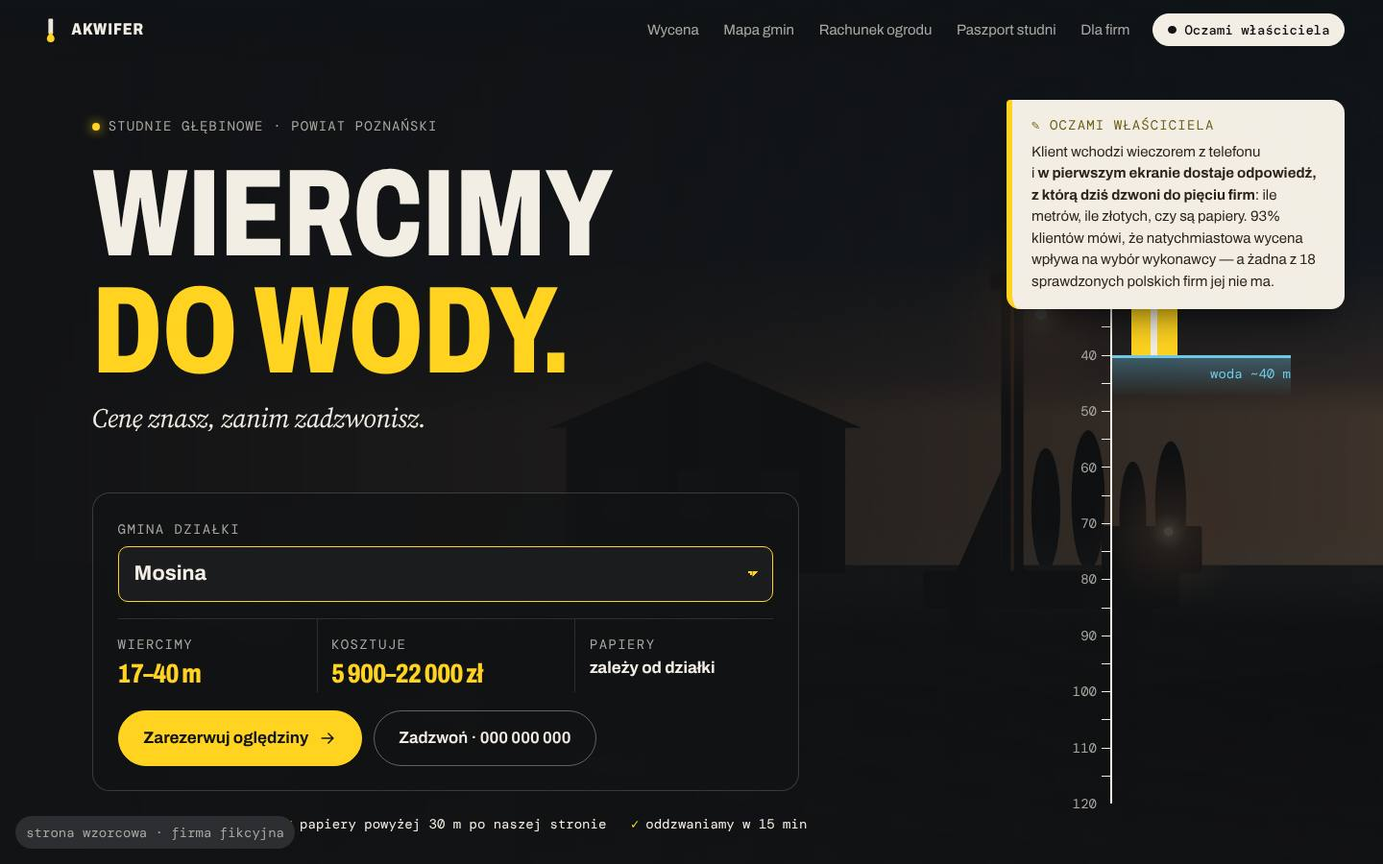
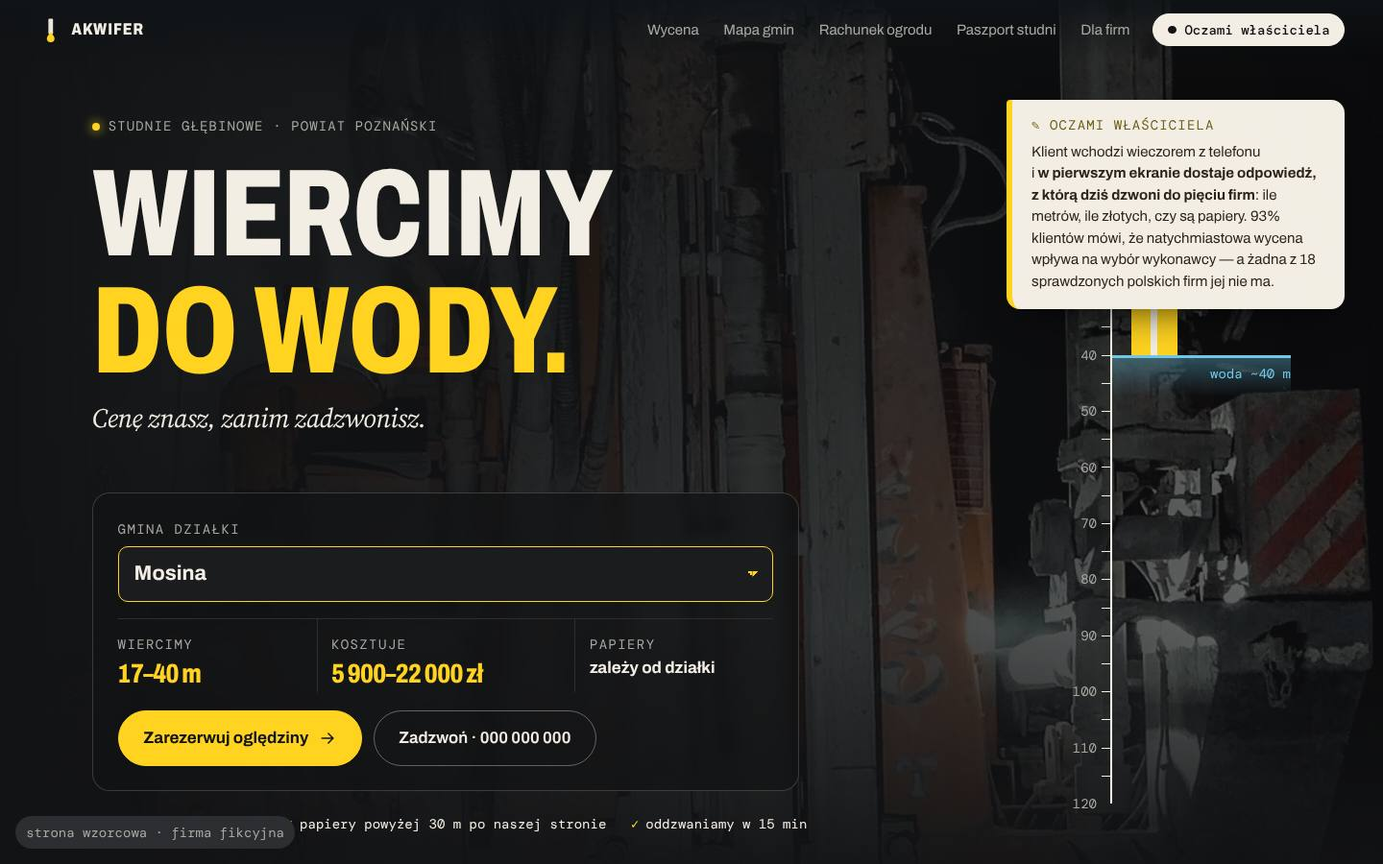
AKWIFER v3: prawdziwe zdjęcia (Pexels) w hero i sekcji Robota, raport materiałów
- hero: pionowy panel ze zdjęciem wiertnicy nocą (fot. Rahul Bokhare / Pexels) za linijką głębokości
- Robota: ekipa przy wiertnicy na osiedlu (fot. Freek Wolsink / Pexels)
- images.py: kadry z generatora mają pierwszeństwo, potem zdjęcia z zrodla/foto/ z podpisem autora
- dane/research/04-materialy.md: zdjęcia na wolnych licencjach, dane GZWP/CBDH, biblioteki, kroje

Claude-Session: https://claude.ai/code/session_01Q4UAS9qdEPvuF2XBJFehkm

Changed region(s): [[0.4688, 0.3422, 1.0, 0.9333], [0.7812, 0.0622, 0.8125, 0.1244], [0.625, 0.2489, 0.6562, 0.3111]]

diff --git a/akwifer/site/index.html b/akwifer/site/index.html
@@ -12,9 +12,9 @@
 <link rel="icon" href="/favicon.svg" type="image/svg+xml">
 <link rel="preload" href="/assets/fonts/archivo-400-800-latin.woff2" as="font" type="font/woff2" crossorigin>
 <link rel="stylesheet" href="/assets/css/fonts.css?v=23c9b478">
-<link rel="stylesheet" href="/assets/css/site.css?v=e857b963">
+<link rel="stylesheet" href="/assets/css/site.css?v=322d897b">
 <script type="application/ld+json">{"@context": "https://schema.org", "@graph": [{"@type": "WebPage", "name": "Studnia głębinowa — wycena dla Twojej gminy, powiat poznański | AKWIFER (wzorzec)", "url": "https://akwifer.jurczakstudio.pl/", "description": "Ile metrów, ile złotych, czy trzeba zgłaszać i kiedy termin — karta zlecenia z danymi PIG dla 14 gmin powiatu poznańskiego. Strona wzorcowa dla firm studniarskich.", "isPartOf": {"@type": "WebSite", "name": "AKWIFER — strona wzorcowa Jurczak Studio"}}]}</script>
-<script src="/assets/js/site.js?v=e857b963" defer></script>
+<script src="/assets/js/site.js?v=322d897b" defer></script>
 </head>
 <body>
 <a class="skip" href="#tresc">Przejdź do treści</a>
@@ -27,7 +27,7 @@
 <main id="tresc">
 
 <section id="start" class="hero3">
-<div class="hero3__tlo" data-par=".06"><img src="/assets/img/plansza-hero.svg" width="1600" height="900" alt="Wiertnica studni o&nbsp;zmierzchu na działce z&nbsp;domem w&nbsp;stanie surowym" class="hero3__img plansza" fetchpriority="high"></div>
+<div class="hero3__tlo" data-par=".06"><picture><source media="(max-width: 760px)" srcset="/assets/img/w/hero-pion-480.webp 480w, /assets/img/w/hero-pion-900.webp 900w" sizes="100vw"><img src="/assets/img/w/hero-1100.webp" srcset="/assets/img/w/hero-720.webp 720w, /assets/img/w/hero-1100.webp 1100w, /assets/img/w/hero-1500.webp 1500w" sizes="(max-width: 760px) 100vw, 56vw" width="1500" height="1875" alt="Wiertnica studzienna nocą w&nbsp;świetle lamp roboczych" class="hero3__img" fetchpriority="high"></picture></div>
 <div class="wrap hero3__u">
 <div class="hero3__t">
 <p class="kicker mono">Studnie głębinowe · powiat poznański</p>
@@ -45,7 +45,7 @@
 </div>
 <div class="linijka" data-linijka aria-hidden="true" style="--lo:0.1417;--hi:0.3333"><div class="linijka__os"><span class="linijka__t mono" style="top:0.00%;--t:0.00">0</span><span class="linijka__t mono" style="top:8.33%;--t:8.33">10</span><span class="linijka__t mono" style="top:16.67%;--t:16.67">20</span><span class="linijka__t mono" style="top:25.00%;--t:25.00">30</span><span class="linijka__t mono" style="top:33.33%;--t:33.33">40</span><span class="linijka__t mono" style="top:41.67%;--t:41.67">50</span><span class="linijka__t mono" style="top:50.00%;--t:50.00">60</span><span class="linijka__t mono" style="top:58.33%;--t:58.33">70</span><span class="linijka__t mono" style="top:66.67%;--t:66.67">80</span><span class="linijka__t mono" style="top:75.00%;--t:75.00">90</span><span class="linijka__t mono" style="top:83.33%;--t:83.33">100</span><span class="linijka__t mono" style="top:91.67%;--t:91.67">110</span><span class="linijka__t mono" style="top:100.00%;--t:100.00">120</span></div><div class="linijka__30"><span class="mono">30 m</span></div><div class="linijka__pas"></div><div class="linijka__wiertlo"></div><div class="linijka__woda"><span class="mono" data-h-med>woda ~40 m</span></div></div>
 </div>
-<p class="hero3__podpis mono">plansza zastępcza · docelowo kadr z&nbsp;generatora</p>
+<p class="hero3__podpis mono">zdjęcie poglądowe · fot. Rahul Bokhare / Pexels</p>
 <aside class="notka" data-notka><p class="notka__t mono">oczami właściciela</p><p>Klient wchodzi wieczorem z&nbsp;telefonu i&nbsp;<b>w&nbsp;pierwszym ekranie dostaje odpowiedź, z&nbsp;którą dziś dzwoni do pięciu firm</b>: ile metrów, ile złotych, czy są papiery. 93% klientów mówi, że natychmiastowa wycena wpływa na wybór wykonawcy — a&nbsp;żadna z&nbsp;18 sprawdzonych polskich firm jej nie ma.</p></aside>
 </section>
 
@@ -144,7 +144,7 @@
 
 <section id="robota" class="sek sek--robota">
 <div class="wrap sek__uklad sek__uklad--odwr">
-<figure class="robota__kadr" data-rv="mask"><img src="/assets/img/plansza-woda.svg" width="800" height="1000" alt="Czysta woda nalewana do szklanki z&nbsp;kranu przy nowej studni" class="robota__img plansza" loading="lazy" decoding="async"><figcaption class="mono">plansza zastępcza · docelowo kadr z&nbsp;Higgsfield</figcaption></figure>
+<figure class="robota__kadr" data-rv="mask"><picture><img src="/assets/img/w/woda-900.webp" srcset="/assets/img/w/woda-480.webp 480w, /assets/img/w/woda-900.webp 900w, /assets/img/w/woda-1300.webp 1300w" sizes="(max-width: 760px) 100vw, 40vw" width="1300" height="1625" alt="Ekipa przy wiertnicy studziennej na osiedlu domów jednorodzinnych" class="robota__img" loading="lazy" decoding="async"></picture><figcaption class="mono">zdjęcie poglądowe · fot. Freek Wolsink / Pexels</figcaption></figure>
 <div class="sek__t">
 <h2 data-rv="split"><span class="w"><i>Robota.</i></span> <span class="w"><i><em>Pięć kroków, jeden dzień wiercenia.</em></i></span></h2>
 <p class="key">Od karty do wody: rozmowa, oględziny z&nbsp;papierami, wiercenie, próbne pompowanie i&nbsp;odbiór z&nbsp;paszportem studni.</p>

diff --git a/akwifer/site/assets/css/site.css b/akwifer/site/assets/css/site.css
@@ -604,11 +604,11 @@ body::after {
 
 /* ---------------------------------------------------------------- hero = przyrząd (W9) */
 .hero3 { position: relative; isolation: isolate; min-height: 100svh; padding: 7.5rem 0 4rem; overflow: hidden; display: flex; align-items: center; }
-.hero3__tlo { position: absolute; inset: -6% 0; z-index: -2; }
+.hero3__tlo { position: absolute; inset: -6% 0 -6% 44%; z-index: -2; }
 .hero3__tlo picture, .hero3__img { width: 100%; height: 100%; }
-.hero3__img { object-fit: cover; object-position: 70% 50%; opacity: .38; filter: grayscale(.35) contrast(1.1); }
+.hero3__img { object-fit: cover; object-position: 45% 70%; opacity: .78; filter: grayscale(.15) contrast(1.08); }
 .hero3::after { content: ""; position: absolute; inset: 0; z-index: -1;
-  background: linear-gradient(90deg, var(--noc) 0%, rgba(17, 18, 20, .82) 45%, rgba(17, 18, 20, .35) 100%), linear-gradient(0deg, var(--noc), rgba(17, 18, 20, 0) 30%); }
+  background: linear-gradient(90deg, var(--noc) 0%, var(--noc) 44%, rgba(17, 18, 20, .45) 62%, rgba(17, 18, 20, .25) 100%), linear-gradient(0deg, var(--noc), rgba(17, 18, 20, 0) 30%); }
 .hero3__u { display: grid; grid-template-columns: minmax(0, 1fr) 15rem; gap: clamp(2rem, 6vw, 7rem); align-items: stretch; }
 .hero3 h1 { margin-bottom: .5em; }
 .hero3 h1 .w:nth-child(2) i { color: var(--sygnal); }
@@ -631,6 +631,7 @@ html.wl .hero3 > .notka { position: absolute; right: clamp(1.25rem, 3vw, 2.5rem)
 
 /* linijka głębokości 0–120 m */
 .linijka { position: relative; min-height: 32rem; margin: 1rem 0 2rem; }
+.linijka::before { content: ""; position: absolute; inset: -1.2rem -1rem -1.2rem -.8rem; z-index: -1; border-radius: 14px; background: rgba(17, 18, 20, .62); backdrop-filter: blur(3px); }
 .linijka__os { position: absolute; inset: 0 auto 0 0; width: 3.4rem; border-right: 2px solid var(--kosc);
   background: repeating-linear-gradient(180deg, var(--kosc) 0 1px, transparent 1px 4.1666%) right top / .6rem 100% no-repeat; }
 .linijka__t { position: absolute; right: .9rem; transform: translateY(-50%); font-size: var(--fs-mini); color: var(--popiol); }
@@ -826,11 +827,14 @@ html:not(.ruch) .zejscie[data-pin], .ruch-off .zejscie[data-pin] { height: auto;
   /* v3 — telefon */
   .hero3 { min-height: auto; display: block; padding: 5.5rem 0 3rem; }
   .hero3__u { grid-template-columns: 1fr; gap: 0; }
-  .hero3__img { opacity: .28; }
+  .hero3__tlo { inset: -6% 0; }
+  .hero3__img { opacity: .3; }
+  .hero3::after { background: linear-gradient(0deg, var(--noc) 0%, rgba(17, 18, 20, .7) 60%, rgba(17, 18, 20, .55) 100%); }
   .przyrzad__w { grid-template-columns: 1fr 1fr; }
   .przyrzad__w > div:nth-child(3) { grid-column: 1 / -1; border-left: 0; padding-left: 0; border-top: 1px solid var(--noc-3); }
   .przyrzad__a .btn { flex: 1 1 100%; justify-content: center; }
   /* linijka poziomo, między nagłówkiem a przyrządem: 0 m po lewej, 120 m po prawej */
+  .linijka::before { display: none; }
   .linijka { order: -1; min-height: 0; height: 3.4rem; margin: 0 0 1.2rem; }
   .linijka__30 span, .linijka__woda span { display: none; }
   .hero3__t { display: contents; }

diff --git a/akwifer/src/site.css b/akwifer/src/site.css
@@ -420,11 +420,11 @@ body::after {
 
 /* ---------------------------------------------------------------- hero = przyrząd (W9) */
 .hero3 { position: relative; isolation: isolate; min-height: 100svh; padding: 7.5rem 0 4rem; overflow: hidden; display: flex; align-items: center; }
-.hero3__tlo { position: absolute; inset: -6% 0; z-index: -2; }
+.hero3__tlo { position: absolute; inset: -6% 0 -6% 44%; z-index: -2; }
 .hero3__tlo picture, .hero3__img { width: 100%; height: 100%; }
-.hero3__img { object-fit: cover; object-position: 70% 50%; opacity: .38; filter: grayscale(.35) contrast(1.1); }
+.hero3__img { object-fit: cover; object-position: 45% 70%; opacity: .78; filter: grayscale(.15) contrast(1.08); }
 .hero3::after { content: ""; position: absolute; inset: 0; z-index: -1;
-  background: linear-gradient(90deg, var(--noc) 0%, rgba(17, 18, 20, .82) 45%, rgba(17, 18, 20, .35) 100%), linear-gradient(0deg, var(--noc), rgba(17, 18, 20, 0) 30%); }
+  background: linear-gradient(90deg, var(--noc) 0%, var(--noc) 44%, rgba(17, 18, 20, .45) 62%, rgba(17, 18, 20, .25) 100%), linear-gradient(0deg, var(--noc), rgba(17, 18, 20, 0) 30%); }
 .hero3__u { display: grid; grid-template-columns: minmax(0, 1fr) 15rem; gap: clamp(2rem, 6vw, 7rem); align-items: stretch; }
 .hero3 h1 { margin-bottom: .5em; }
 .hero3 h1 .w:nth-child(2) i { color: var(--sygnal); }
@@ -447,6 +447,7 @@ html.wl .hero3 > .notka { position: absolute; right: clamp(1.25rem, 3vw, 2.5rem)
 
 /* linijka głębokości 0–120 m */
 .linijka { position: relative; min-height: 32rem; margin: 1rem 0 2rem; }
+.linijka::before { content: ""; position: absolute; inset: -1.2rem -1rem -1.2rem -.8rem; z-index: -1; border-radius: 14px; background: rgba(17, 18, 20, .62); backdrop-filter: blur(3px); }
 .linijka__os { position: absolute; inset: 0 auto 0 0; width: 3.4rem; border-right: 2px solid var(--kosc);
   background: repeating-linear-gradient(180deg, var(--kosc) 0 1px, transparent 1px 4.1666%) right top / .6rem 100% no-repeat; }
 .linijka__t { position: absolute; right: .9rem; transform: translateY(-50%); font-size: var(--fs-mini); color: var(--popiol); }
@@ -642,11 +643,14 @@ html:not(.ruch) .zejscie[data-pin], .ruch-off .zejscie[data-pin] { height: auto;
   /* v3 — telefon */
   .hero3 { min-height: auto; display: block; padding: 5.5rem 0 3rem; }
   .hero3__u { grid-template-columns: 1fr; gap: 0; }
-  .hero3__img { opacity: .28; }
+  .hero3__tlo { inset: -6% 0; }
+  .hero3__img { opacity: .3; }
+  .hero3::after { background: linear-gradient(0deg, var(--noc) 0%, rgba(17, 18, 20, .7) 60%, rgba(17, 18, 20, .55) 100%); }
   .przyrzad__w { grid-template-columns: 1fr 1fr; }
   .przyrzad__w > div:nth-child(3) { grid-column: 1 / -1; border-left: 0; padding-left: 0; border-top: 1px solid var(--noc-3); }
   .przyrzad__a .btn { flex: 1 1 100%; justify-content: center; }
   /* linijka poziomo, między nagłówkiem a przyrządem: 0 m po lewej, 120 m po prawej */
+  .linijka::before { display: none; }
   .linijka { order: -1; min-height: 0; height: 3.4rem; margin: 0 0 1.2rem; }
   .linijka__30 span, .linijka__woda span { display: none; }
   .hero3__t { display: contents; }

diff --git a/akwifer/site/gmina/tarnowo-podgorne/index.html b/akwifer/site/gmina/tarnowo-podgorne/index.html
@@ -12,9 +12,9 @@
 <link rel="icon" href="/favicon.svg" type="image/svg+xml">
 <link rel="preload" href="/assets/fonts/archivo-400-800-latin.woff2" as="font" type="font/woff2" crossorigin>
 <link rel="stylesheet" href="/assets/css/fonts.css?v=23c9b478">
-<link rel="stylesheet" href="/assets/css/site.css?v=e857b963">
+<link rel="stylesheet" href="/assets/css/site.css?v=322d897b">
 <script type="application/ld+json">{"@context": "https://schema.org", "@graph": [{"@type": "WebPage", "name": "Studnia głębinowa Tarnowo Podgórne — głębokość i koszt | AKWIFER (wzorzec)", "url": "https://akwifer.jurczakstudio.pl/gmina/tarnowo-podgorne/", "description": "Jak głęboka będzie studnia w gminie Tarnowo Podgórne: od 15 do 36 m według rejestru PIG (16 otworów). Koszt, formalności, karta zlecenia.", "isPartOf": {"@type": "WebSite", "name": "AKWIFER — strona wzorcowa Jurczak Studio"}}, {"@type": "FAQPage", "mainEntity": [{"@type": "Question", "name": "Jak głęboka będzie studnia w gminie Tarnowo Podgórne?", "acceptedAnswer": {"@type": "Answer", "text": "Według rejestru PIG od 15 m (najpłytsze ujęcie) do ok. 36 m (mediana 16 otworów). Dokładną głębokość ustala się po oględzinach i sprawdzeniu otworów w okolicy działki — rejestr podaje rozkład dla całej gminy."}}, {"@type": "Question", "name": "Ile kosztuje studnia głębinowa w gminie Tarnowo Podgórne?", "acceptedAnswer": {"@type": "Answer", "text": "Na średnich rynkowych: od ok. 5 500 do ok. 20 600 zł razem z pompą i hydroforem. Liczymy 200–350 zł za metr wiercenia (kb.pl, 08.2026) i 2,5–8 tys. zł osprzętu. To widełki, nie cennik."}}, {"@type": "Question", "name": "Czy w gminie Tarnowo Podgórne trzeba zgłaszać studnię?", "acceptedAnswer": {"@type": "Answer", "text": "Studni do 30 m na potrzeby domu, z poborem do 5 m³ na dobę, nie trzeba zgłaszać — powyżej 30 m potrzebny jest projekt robót geologicznych. W tej gminie: najpłytsze ujęcia mieszczą się w 30 m, ale połowa otworów jest głębsza — jeśli przekroczymy 30 m, papiery są po naszej stronie."}}]}, {"@type": "BreadcrumbList", "itemListElement": [{"@type": "ListItem", "position": 1, "name": "AKWIFER", "item": "https://akwifer.jurczakstudio.pl/"}, {"@type": "ListItem", "position": 2, "name": "Tarnowo Podgórne", "item": "https://akwifer.jurczakstudio.pl/gmina/tarnowo-podgorne/"}]}]}</script>
-<script src="/assets/js/site.js?v=e857b963" defer></script>
+<script src="/assets/js/site.js?v=322d897b" defer></script>
 </head>
 <body>
 <a class="skip" href="#tresc">Przejdź do treści</a>

diff --git a/akwifer/site/gmina/rokietnica/index.html b/akwifer/site/gmina/rokietnica/index.html
@@ -12,9 +12,9 @@
 <link rel="icon" href="/favicon.svg" type="image/svg+xml">
 <link rel="preload" href="/assets/fonts/archivo-400-800-latin.woff2" as="font" type="font/woff2" crossorigin>
 <link rel="stylesheet" href="/assets/css/fonts.css?v=23c9b478">
-<link rel="stylesheet" href="/assets/css/site.css?v=e857b963">
+<link rel="stylesheet" href="/assets/css/site.css?v=322d897b">
 <script type="application/ld+json">{"@context": "https://schema.org", "@graph": [{"@type": "WebPage", "name": "Studnia głębinowa Rokietnica — głębokość i koszt | AKWIFER (wzorzec)", "url": "https://akwifer.jurczakstudio.pl/gmina/rokietnica/", "description": "Jak głęboka będzie studnia w gminie Rokietnica: od 19,5 do 56,5 m według rejestru PIG (20 otworów). Koszt, formalności, karta zlecenia.", "isPartOf": {"@type": "WebSite", "name": "AKWIFER — strona wzorcowa Jurczak Studio"}}, {"@type": "FAQPage", "mainEntity": [{"@type": "Question", "name": "Jak głęboka będzie studnia w gminie Rokietnica?", "acceptedAnswer": {"@type": "Answer", "text": "Według rejestru PIG od 19,5 m (najpłytsze ujęcie) do ok. 56,5 m (mediana 20 otworów). Dokładną głębokość ustala się po oględzinach i sprawdzeniu otworów w okolicy działki — rejestr podaje rozkład dla całej gminy."}}, {"@type": "Question", "name": "Ile kosztuje studnia głębinowa w gminie Rokietnica?", "acceptedAnswer": {"@type": "Answer", "text": "Na średnich rynkowych: od ok. 6 400 do ok. 27 800 zł razem z pompą i hydroforem. Liczymy 200–350 zł za metr wiercenia (kb.pl, 08.2026) i 2,5–8 tys. zł osprzętu. To widełki, nie cennik."}}, {"@type": "Question", "name": "Czy w gminie Rokietnica trzeba zgłaszać studnię?", "acceptedAnswer": {"@type": "Answer", "text": "Studni do 30 m na potrzeby domu, z poborem do 5 m³ na dobę, nie trzeba zgłaszać — powyżej 30 m potrzebny jest projekt robót geologicznych. W tej gminie: najpłytsze ujęcia mieszczą się w 30 m, ale połowa otworów jest głębsza — jeśli przekroczymy 30 m, papiery są po naszej stronie."}}]}, {"@type": "BreadcrumbList", "itemListElement": [{"@type": "ListItem", "position": 1, "name": "AKWIFER", "item": "https://akwifer.jurczakstudio.pl/"}, {"@type": "ListItem", "position": 2, "name": "Rokietnica", "item": "https://akwifer.jurczakstudio.pl/gmina/rokietnica/"}]}]}</script>
-<script src="/assets/js/site.js?v=e857b963" defer></script>
+<script src="/assets/js/site.js?v=322d897b" defer></script>
 </head>
 <body>
 <a class="skip" href="#tresc">Przejdź do treści</a>

diff --git a/akwifer/site/gmina/czerwonak/index.html b/akwifer/site/gmina/czerwonak/index.html
@@ -12,9 +12,9 @@
 <link rel="icon" href="/favicon.svg" type="image/svg+xml">
 <link rel="preload" href="/assets/fonts/archivo-400-800-latin.woff2" as="font" type="font/woff2" crossorigin>
 <link rel="stylesheet" href="/assets/css/fonts.css?v=23c9b478">
-<link rel="stylesheet" href="/assets/css/site.css?v=e857b963">
+<link rel="stylesheet" href="/assets/css/site.css?v=322d897b">
 <script type="application/ld+json">{"@context": "https://schema.org", "@graph": [{"@type": "WebPage", "name": "Studnia głębinowa Czerwonak — głębokość i koszt | AKWIFER (wzorzec)", "url": "https://akwifer.jurczakstudio.pl/gmina/czerwonak/", "description": "Jak głęboka będzie studnia w gminie Czerwonak: od 10,5 do 71,5 m według rejestru PIG (16 otworów). Koszt, formalności, karta zlecenia.", "isPartOf": {"@type": "WebSite", "name": "AKWIFER — strona wzorcowa Jurczak Studio"}}, {"@type": "FAQPage", "mainEntity": [{"@type": "Question", "name": "Jak głęboka będzie studnia w gminie Czerwonak?", "acceptedAnswer": {"@type": "Answer", "text": "Według rejestru PIG od 10,5 m (najpłytsze ujęcie) do ok. 71,5 m (mediana 16 otworów). Dokładną głębokość ustala się po oględzinach i sprawdzeniu otworów w okolicy działki — rejestr podaje rozkład dla całej gminy."}}, {"@type": "Question", "name": "Ile kosztuje studnia głębinowa w gminie Czerwonak?", "acceptedAnswer": {"@type": "Answer", "text": "Na średnich rynkowych: od ok. 4 600 do ok. 33 000 zł razem z pompą i hydroforem. Liczymy 200–350 zł za metr wiercenia (kb.pl, 08.2026) i 2,5–8 tys. zł osprzętu. To widełki, nie cennik."}}, {"@type": "Question", "name": "Czy w gminie Czerwonak trzeba zgłaszać studnię?", "acceptedAnswer": {"@type": "Answer", "text": "Studni do 30 m na potrzeby domu, z poborem do 5 m³ na dobę, nie trzeba zgłaszać — powyżej 30 m potrzebny jest projekt robót geologicznych. W tej gminie: najpłytsze ujęcia mieszczą się w 30 m, ale połowa otworów jest głębsza — jeśli przekroczymy 30 m, papiery są po naszej stronie."}}]}, {"@type": "BreadcrumbList", "itemListElement": [{"@type": "ListItem", "position": 1, "name": "AKWIFER", "item": "https://akwifer.jurczakstudio.pl/"}, {"@type": "ListItem", "position": 2, "name": "Czerwonak", "item": "https://akwifer.jurczakstudio.pl/gmina/czerwonak/"}]}]}</script>
-<script src="/assets/js/site.js?v=e857b963" defer></script>
+<script src="/assets/js/site.js?v=322d897b" defer></script>
 </head>
 <body>
 <a class="skip" href="#tresc">Przejdź do treści</a>

diff --git a/akwifer/site/gmina/komorniki/index.html b/akwifer/site/gmina/komorniki/index.html
@@ -12,9 +12,9 @@
 <link rel="icon" href="/favicon.svg" type="image/svg+xml">
 <link rel="preload" href="/assets/fonts/archivo-400-800-latin.woff2" as="font" type="font/woff2" crossorigin>
 <link rel="stylesheet" href="/assets/css/fonts.css?v=23c9b478">
-<link rel="stylesheet" href="/assets/css/site.css?v=e857b963">
+<link rel="stylesheet" href="/assets/css/site.css?v=322d897b">
 <script type="application/ld+json">{"@context": "https://schema.org", "@graph": [{"@type": "WebPage", "name": "Studnia głębinowa Komorniki — głębokość i koszt | AKWIFER (wzorzec)", "url": "https://akwifer.jurczakstudio.pl/gmina/komorniki/", "description": "Jak głęboka będzie studnia w gminie Komorniki: od 22 do 110 m według rejestru PIG (5 otworów). Koszt, formalności, karta zlecenia.", "isPartOf": {"@type": "WebSite", "name": "AKWIFER — strona wzorcowa Jurczak Studio"}}, {"@type": "FAQPage", "mainEntity": [{"@type": "Question", "name": "Jak głęboka będzie studnia w gminie Komorniki?", "acceptedAnswer": {"@type": "Answer", "text": "Według rejestru PIG od 22 m (najpłytsze ujęcie) do ok. 110 m (mediana 5 otworów). Dokładną głębokość ustala się po oględzinach i sprawdzeniu otworów w okolicy działki — rejestr podaje rozkład dla całej gminy."}}, {"@type": "Question", "name": "Ile kosztuje studnia głębinowa w gminie Komorniki?", "acceptedAnswer": {"@type": "Answer", "text": "Na średnich rynkowych: od ok. 6 900 do ok. 46 500 zł razem z pompą i hydroforem. Liczymy 200–350 zł za metr wiercenia (kb.pl, 08.2026) i 2,5–8 tys. zł osprzętu. To widełki, nie cennik."}}, {"@type": "Question", "name": "Czy w gminie Komorniki trzeba zgłaszać studnię?", "acceptedAnswer": {"@type": "Answer", "text": "Studni do 30 m na potrzeby domu, z poborem do 5 m³ na dobę, nie trzeba zgłaszać — powyżej 30 m potrzebny jest projekt robót geologicznych. W tej gminie: najpłytsze ujęcia mieszczą się w 30 m, ale połowa otworów jest głębsza — jeśli przekroczymy 30 m, papiery są po naszej stronie."}}]}, {"@type": "BreadcrumbList", "itemListElement": [{"@type": "ListItem", "position": 1, "name": "AKWIFER", "item": "https://akwifer.jurczakstudio.pl/"}, {"@type": "ListItem", "position": 2, "name": "Komorniki", "item": "https://akwifer.jurczakstudio.pl/gmina/komorniki/"}]}]}</script>
-<script src="/assets/js/site.js?v=e857b963" defer></script>
+<script src="/assets/js/site.js?v=322d897b" defer></script>
 </head>
 <body>
 <a class="skip" href="#tresc">Przejdź do treści</a>

diff --git a/akwifer/site/gmina/suchy-las/index.html b/akwifer/site/gmina/suchy-las/index.html
@@ -12,9 +12,9 @@
 <link rel="icon" href="/favicon.svg" type="image/svg+xml">
 <link rel="preload" href="/assets/fonts/archivo-400-800-latin.woff2" as="font" type="font/woff2" crossorigin>
 <link rel="stylesheet" href="/assets/css/fonts.css?v=23c9b478">
-<link rel="stylesheet" href="/assets/css/site.css?v=e857b963">
+<link rel="stylesheet" href="/assets/css/site.css?v=322d897b">
 <script type="application/ld+json">{"@context": "https://schema.org", "@graph": [{"@type": "WebPage", "name": "Studnia głębinowa Suchy Las — głębokość i koszt | AKWIFER (wzorzec)", "url": "https://akwifer.jurczakstudio.pl/gmina/suchy-las/", "description": "Jak głęboka będzie studnia w gminie Suchy Las: od 15 do 43 m według rejestru PIG (17 otworów). Koszt, formalności, karta zlecenia.", "isPartOf": {"@type": "WebSite", "name": "AKWIFER — strona wzorcowa Jurczak Studio"}}, {"@type": "FAQPage", "mainEntity": [{"@type": "Question", "name": "Jak głęboka będzie studnia w gminie Suchy Las?", "acceptedAnswer": {"@type": "Answer", "text": "Według rejestru PIG od 15 m (najpłytsze ujęcie) do ok. 43 m (mediana 17 otworów). Dokładną głębokość ustala się po oględzinach i sprawdzeniu otworów w okolicy działki — rejestr podaje rozkład dla całej gminy."}}, {"@type": "Question", "name": "Ile kosztuje studnia głębinowa w gminie Suchy Las?", "acceptedAnswer": {"@type": "Answer", "text": "Na średnich rynkowych: od ok. 5 500 do ok. 23 000 zł razem z pompą i hydroforem. Liczymy 200–350 zł za metr wiercenia (kb.pl, 08.2026) i 2,5–8 tys. zł osprzętu. To widełki, nie cennik."}}, {"@type": "Question", "name": "Czy w gminie Suchy Las trzeba zgłaszać studnię?", "acceptedAnswer": {"@type": "Answer", "text": "Studni do 30 m na potrzeby domu, z poborem do 5 m³ na dobę, nie trzeba zgłaszać — powyżej 30 m potrzebny jest projekt robót geologicznych. W tej gminie: najpłytsze ujęcia mieszczą się w 30 m, ale połowa otworów jest głębsza — jeśli przekroczymy 30 m, papiery są po naszej stronie."}}]}, {"@type": "BreadcrumbList", "itemListElement": [{"@type": "ListItem", "position": 1, "name": "AKWIFER", "item": "https://akwifer.jurczakstudio.pl/"}, {"@type": "ListItem", "position": 2, "name": "Suchy Las", "item": "https://akwifer.jurczakstudio.pl/gmina/suchy-las/"}]}]}</script>
-<script src="/assets/js/site.js?v=e857b963" defer></script>
+<script src="/assets/js/site.js?v=322d897b" defer></script>
 </head>
 <body>
 <a class="skip" href="#tresc">Przejdź do treści</a>

diff --git a/akwifer/site/gmina/swarzedz/index.html b/akwifer/site/gmina/swarzedz/index.html
@@ -12,9 +12,9 @@
 <link rel="icon" href="/favicon.svg" type="image/svg+xml">
 <link rel="preload" href="/assets/fonts/archivo-400-800-latin.woff2" as="font" type="font/woff2" crossorigin>
 <link rel="stylesheet" href="/assets/css/fonts.css?v=23c9b478">
-<link rel="stylesheet" href="/assets/css/site.css?v=e857b963">
+<link rel="stylesheet" href="/assets/css/site.css?v=322d897b">
 <script type="application/ld+json">{"@context": "https://schema.org", "@graph": [{"@type": "WebPage", "name": "Studnia głębinowa Swarzędz — głębokość i koszt | AKWIFER (wzorzec)", "url": "https://akwifer.jurczakstudio.pl/gmina/swarzedz/", "description": "Jak głęboka będzie studnia w gminie Swarzędz: od 10 do 65 m według rejestru PIG (35 otworów). Koszt, formalności, karta zlecenia.", "isPartOf": {"@type": "WebSite", "name": "AKWIFER — strona wzorcowa Jurczak Studio"}}, {"@type": "FAQPage", "mainEntity": [{"@type": "Question", "name": "Jak głęboka będzie studnia w gminie Swarzędz?", "acceptedAnswer": {"@type": "Answer", "text": "Według rejestru PIG od 10 m (najpłytsze ujęcie) do ok. 65 m (mediana 35 otworów). Dokładną głębokość ustala się po oględzinach i sprawdzeniu otworów w okolicy działki — rejestr podaje rozkład dla całej gminy."}}, {"@type": "Question", "name": "Ile kosztuje studnia głębinowa w gminie Swarzędz?", "acceptedAnswer": {"@type": "Answer", "text": "Na średnich rynkowych: od ok. 4 500 do ok. 30 800 zł razem z pompą i hydroforem. Liczymy 200–350 zł za metr wiercenia (kb.pl, 08.2026) i 2,5–8 tys. zł osprzętu. To widełki, nie cennik."}}, {"@type": "Question", "name": "Czy w gminie Swarzędz trzeba zgłaszać studnię?", "acceptedAnswer": {"@type": "Answer", "text": "Studni do 30 m na potrzeby domu, z poborem do 5 m³ na dobę, nie trzeba zgłaszać — powyżej 30 m potrzebny jest projekt robót geologicznych. W tej gminie: najpłytsze ujęcia mieszczą się w 30 m, ale połowa otworów jest głębsza — jeśli przekroczymy 30 m, papiery są po naszej stronie."}}]}, {"@type": "BreadcrumbList", "itemListElement": [{"@type": "ListItem", "position": 1, "name": "AKWIFER", "item": "https://akwifer.jurczakstudio.pl/"}, {"@type": "ListItem", "position": 2, "name": "Swarzędz", "item": "https://akwifer.jurczakstudio.pl/gmina/swarzedz/"}]}]}</script>
-<script src="/assets/js/site.js?v=e857b963" defer></script>
+<script src="/assets/js/site.js?v=322d897b" defer></script>
 </head>
 <body>
 <a class="skip" href="#tresc">Przejdź do treści</a>

diff --git a/akwifer/site/gmina/steszew/index.html b/akwifer/site/gmina/steszew/index.html
@@ -12,9 +12,9 @@
 <link rel="icon" href="/favicon.svg" type="image/svg+xml">
 <link rel="preload" href="/assets/fonts/archivo-400-800-latin.woff2" as="font" type="font/woff2" crossorigin>
 <link rel="stylesheet" href="/assets/css/fonts.css?v=23c9b478">
-<link rel="stylesheet" href="/assets/css/site.css?v=e857b963">
+<link rel="stylesheet" href="/assets/css/site.css?v=322d897b">
 <script type="application/ld+json">{"@context": "https://schema.org", "@graph": [{"@type": "WebPage", "name": "Studnia głębinowa Stęszew — głębokość i koszt | AKWIFER (wzorzec)", "url": "https://akwifer.jurczakstudio.pl/gmina/steszew/", "description": "Jak głęboka będzie studnia w gminie Stęszew: od 21 do 49,6 m według rejestru PIG (12 otworów). Koszt, formalności, karta zlecenia.", "isPartOf": {"@type": "WebSite", "name": "AKWIFER — strona wzorcowa Jurczak Studio"}}, {"@type": "FAQPage", "mainEntity": [{"@type": "Question", "name": "Jak głęboka będzie studnia w gminie Stęszew?", "acceptedAnswer": {"@type": "Answer", "text": "Według rejestru PIG od 21 m (najpłytsze ujęcie) do ok. 49,6 m (mediana 12 otworów). Dokładną głębokość ustala się po oględzinach i sprawdzeniu otworów w okolicy działki — rejestr podaje rozkład dla całej gminy."}}, {"@type": "Question", "name": "Ile kosztuje studnia głębinowa w gminie Stęszew?", "acceptedAnswer": {"@type": "Answer", "text": "Na średnich rynkowych: od ok. 6 700 do ok. 25 400 zł razem z pompą i hydroforem. Liczymy 200–350 zł za metr wiercenia (kb.pl, 08.2026) i 2,5–8 tys. zł osprzętu. To widełki, nie cennik."}}, {"@type": "Question", "name": "Czy w gminie Stęszew trzeba zgłaszać studnię?", "acceptedAnswer": {"@type": "Answer", "text": "Studni do 30 m na potrzeby domu, z poborem do 5 m³ na dobę, nie trzeba zgłaszać — powyżej 30 m potrzebny jest projekt robót geologicznych. W tej gminie: najpłytsze ujęcia mieszczą się w 30 m, ale połowa otworów jest głębsza — jeśli przekroczymy 30 m, papiery są po naszej stronie."}}]}, {"@type": "BreadcrumbList", "itemListElement": [{"@type": "ListItem", "position": 1, "name": "AKWIFER", "item": "https://akwifer.jurczakstudio.pl/"}, {"@type": "ListItem", "position": 2, "name": "Stęszew", "item": "https://akwifer.jurczakstudio.pl/gmina/steszew/"}]}]}</script>
-<script src="/assets/js/site.js?v=e857b963" defer></script>
+<script src="/assets/js/site.js?v=322d897b" defer></script>
 </head>
 <body>
 <a class="skip" href="#tresc">Przejdź do treści</a>

diff --git a/akwifer/site/gmina/kornik/index.html b/akwifer/site/gmina/kornik/index.html
@@ -12,9 +12,9 @@
 <link rel="icon" href="/favicon.svg" type="image/svg+xml">
 <link rel="preload" href="/assets/fonts/archivo-400-800-latin.woff2" as="font" type="font/woff2" crossorigin>
 <link rel="stylesheet" href="/assets/css/fonts.css?v=23c9b478">
-<link rel="stylesheet" href="/assets/css/site.css?v=e857b963">
+<link rel="stylesheet" href="/assets/css/site.css?v=322d897b">
 <script type="application/ld+json">{"@context": "https://schema.org", "@graph": [{"@type": "WebPage", "name": "Studnia głębinowa Kórnik — głębokość i koszt | AKWIFER (wzorzec)", "url": "https://akwifer.jurczakstudio.pl/gmina/kornik/", "description": "Jak głęboka będzie studnia w gminie Kórnik: od 12,5 do 100 m według rejestru PIG (27 otworów). Koszt, formalności, karta zlecenia.", "isPartOf": {"@type": "WebSite", "name": "AKWIFER — strona wzorcowa Jurczak Studio"}}, {"@type": "FAQPage", "mainEntity": [{"@type": "Question", "name": "Jak głęboka będzie studnia w gminie Kórnik?", "acceptedAnswer": {"@type": "Answer", "text": "Według rejestru PIG od 12,5 m (najpłytsze ujęcie) do ok. 100 m (mediana 27 otworów). Dokładną głębokość ustala się po oględzinach i sprawdzeniu otworów w okolicy działki — rejestr podaje rozkład dla całej gminy."}}, {"@type": "Question", "name": "Ile kosztuje studnia głębinowa w gminie Kórnik?", "acceptedAnswer": {"@type": "Answer", "text": "Na średnich rynkowych: od ok. 5 000 do ok. 43 000 zł razem z pompą i hydroforem. Liczymy 200–350 zł za metr wiercenia (kb.pl, 08.2026) i 2,5–8 tys. zł osprzętu. To widełki, nie cennik."}}, {"@type": "Question", "name": "Czy w gminie Kórnik trzeba zgłaszać studnię?", "acceptedAnswer": {"@type": "Answer", "text": "Studni do 30 m na potrzeby domu, z poborem do 5 m³ na dobę, nie trzeba zgłaszać — powyżej 30 m potrzebny jest projekt robót geologicznych. W tej gminie: najpłytsze ujęcia mieszczą się w 30 m, ale połowa otworów jest głębsza — jeśli przekroczymy 30 m, papiery są po naszej stronie."}}]}, {"@type": "BreadcrumbList", "itemListElement": [{"@type": "ListItem", "position": 1, "name": "AKWIFER", "item": "https://akwifer.jurczakstudio.pl/"}, {"@type": "ListItem", "position": 2, "name": "Kórnik", "item": "https://akwifer.jurczakstudio.pl/gmina/kornik/"}]}]}</script>
-<script src="/assets/js/site.js?v=e857b963" defer></script>
+<script src="/assets/js/site.js?v=322d897b" defer></script>
 </head>
 <body>
 <a class="skip" href="#tresc">Przejdź do treści</a>

diff --git a/akwifer/site/gmina/dopiewo/index.html b/akwifer/site/gmina/dopiewo/index.html
@@ -12,9 +12,9 @@
 <link rel="icon" href="/favicon.svg" type="image/svg+xml">
 <link rel="preload" href="/assets/fonts/archivo-400-800-latin.woff2" as="font" type="font/woff2" crossorigin>
 <link rel="stylesheet" href="/assets/css/fonts.css?v=23c9b478">
-<link rel="stylesheet" href="/assets/css/site.css?v=e857b963">
+<link rel="stylesheet" href="/assets/css/site.css?v=322d897b">
 <script type="application/ld+json">{"@context": "https://schema.org", "@graph": [{"@type": "WebPage", "name": "Studnia głębinowa Dopiewo — głębokość i koszt | AKWIFER (wzorzec)", "url": "https://akwifer.jurczakstudio.pl/gmina/dopiewo/", "description": "Jak głęboka będzie studnia w gminie Dopiewo: od 30 do 51,7 m według rejestru PIG (9 otworów). Koszt, formalności, karta zlecenia.", "isPartOf": {"@type": "WebSite", "name": "AKWIFER — strona wzorcowa Jurczak Studio"}}, {"@type": "FAQPage", "mainEntity": [{"@type": "Question", "name": "Jak głęboka będzie studnia w gminie Dopiewo?", "acceptedAnswer": {"@type": "Answer", "text": "Według rejestru PIG od 30 m (najpłytsze ujęcie) do ok. 51,7 m (mediana 9 otworów). Dokładną głębokość ustala się po oględzinach i sprawdzeniu otworów w okolicy działki — rejestr podaje rozkład dla całej gminy."}}, {"@type": "Question", "name": "Ile kosztuje studnia głębinowa w gminie Dopiewo?", "acceptedAnswer": {"@type": "Answer", "text": "Na średnich rynkowych: od ok. 8 500 do ok. 26 100 zł razem z pompą i hydroforem. Liczymy 200–350 zł za metr wiercenia (kb.pl, 08.2026) i 2,5–8 tys. zł osprzętu. To widełki, nie cennik."}}, {"@type": "Question", "name": "Czy w gminie Dopiewo trzeba zgłaszać studnię?", "acceptedAnswer": {"@type": "Answer", "text": "Studni do 30 m na potrzeby domu, z poborem do 5 m³ na dobę, nie trzeba zgłaszać — powyżej 30 m potrzebny jest projekt robót geologicznych. W tej gminie: najpłytsze ujęcia mieszczą się w 30 m, ale połowa otworów jest głębsza — jeśli przekroczymy 30 m, papiery są po naszej stronie."}}]}, {"@type": "BreadcrumbList", "itemListElement": [{"@type": "ListItem", "position": 1, "name": "AKWIFER", "item": "https://akwifer.jurczakstudio.pl/"}, {"@type": "ListItem", "position": 2, "name": "Dopiewo", "item": "https://akwifer.jurczakstudio.pl/gmina/dopiewo/"}]}]}</script>
-<script src="/assets/js/site.js?v=e857b963" defer></script>
+<script src="/assets/js/site.js?v=322d897b" defer></script>
 </head>
 <body>
 <a class="skip" href="#tresc">Przejdź do treści</a>
